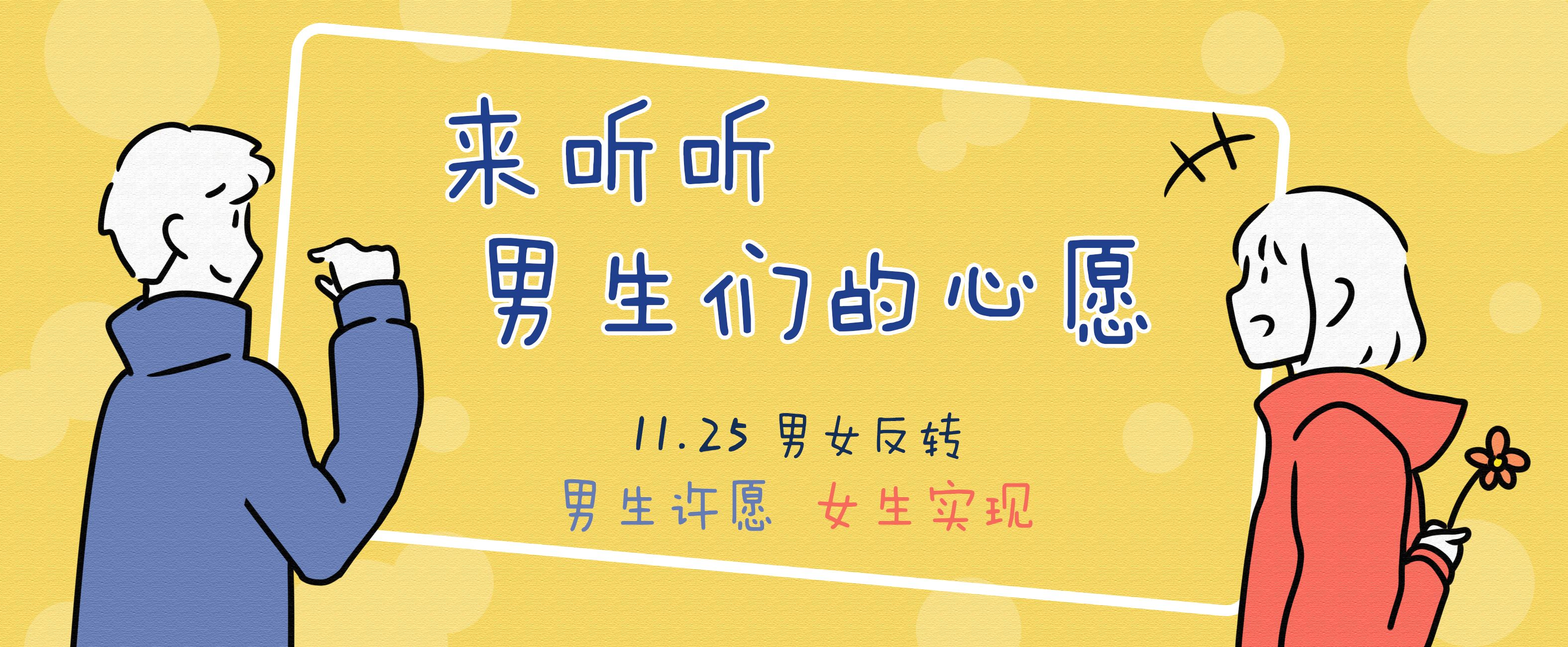
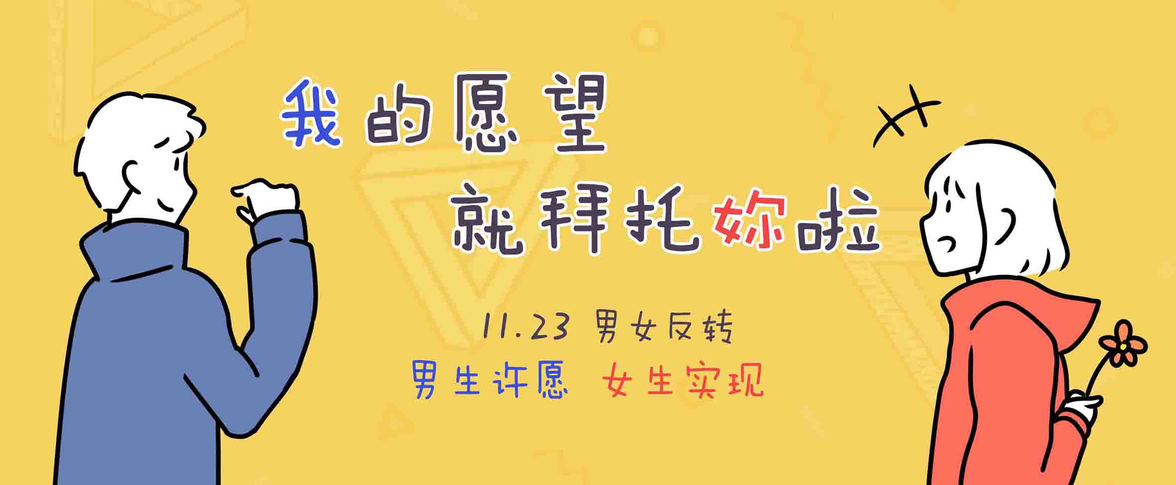
滚动穿透问题，别问，问就是红莲nb

diff --git a/src/components/WishWall.vue b/src/components/WishWall.vue
@@ -82,10 +82,10 @@
           </h5>
           <p>一个女生许愿，男生实现的线上平台。</p>
           <p>※女生可以自定义许愿的内容，选择是否留下联系方式，联系方式仅会展示给领取愿望的人，不会出现在首页。</p>
-          <p>※愿望可以被多人领取，一旦被领取，将在四个小时后从首页消失，所以请谨慎领取，不要辜负每一个心愿~</p>
+          <p>※愿望可以被多人领取，一旦被领取，将在十二个小时后从首页消失，所以请谨慎领取，不要辜负每一个心愿~</p>
           <p>※女生可以在“我的心愿”界面查看心愿的领取详情，心愿被完成之后请及时点击“确认完成”，提醒其他领取你心愿的小伙伴哟</p>
           <p>同理，男生可以在“我的心愿”界面查看你领取心愿的完成情况噢~</p>
-          <p>※11月25日男女反转，男生许愿，女生实现，男孩子们也应该拥有节日~</p>
+          <p>※11月23日男女反转，男生许愿，女生实现，男孩子们也应该拥有节日~</p>
           <h5>
             <img src="@/assets/nav/4.png" alt="">
             树洞
@@ -115,7 +115,7 @@ export default {
         autoplay:3000,
         speed:1000,
         loop:true,
-        pagination:'.swiper-pagination'
+        // pagination:'.swiper-pagination'
       },
       schools:[
         "全部",
@@ -259,16 +259,26 @@ export default {
     return arr;
     },
     checkTips(){
+      //解决滚动穿透，反正就是红莲nb
       this.readTips = true;
-      document.body.style.overflow = 'hidden'
+      const scrollTop = document.body.scrollTop || document.documentElement.scrollTop;
+      document.body.style.cssText +='position:fixed;width:100%;top:-'+scrollTop+'px;'
     },
     closeTip(){
       this.readTips = false;
-      document.body.style.overflow = '';
+      const body = document.body;
+      body.style.position = '';
+      const top = body.style.top;
+      document.body.scrollTop = document.documentElement.scrollTop = -parseInt(top);
+      body.style.top='';
     }
   },
   async mounted(){
     this.wishes = await this.getData();
+    // (function(arr){
+    //   let wishMany = arr.map(item=>item.wish_many);
+    //   console.log(wishMany);
+    // })(this.wishes)
     window.addEventListener("scroll", this.onLoadList)
   },
   //离开该页面时移除，否则会一直监听
@@ -339,9 +349,9 @@ li{
   left: 50%;
   transform: translateX(-50%) translateY(-50%); */
 }
-.banner >>> .swiper-pagination-bullet-active{
+/* .banner >>> .swiper-pagination-bullet-active{
   background:  #FF9D9D;
-}
+} */
 
 .scroll-wrap{
   position: relative;
